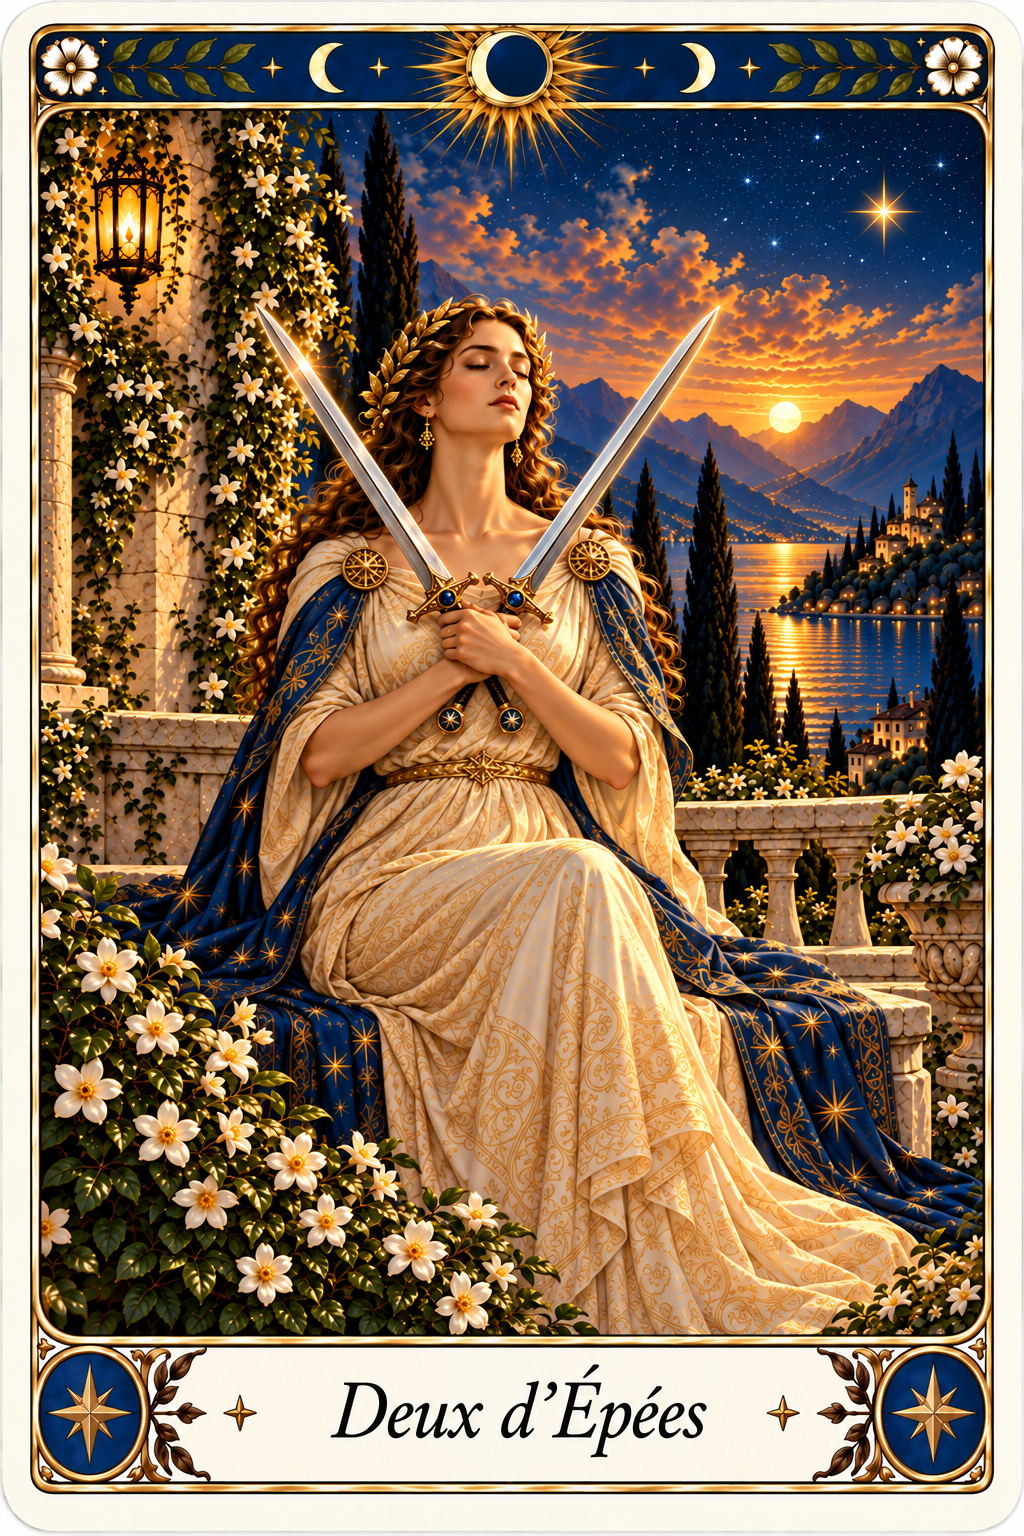
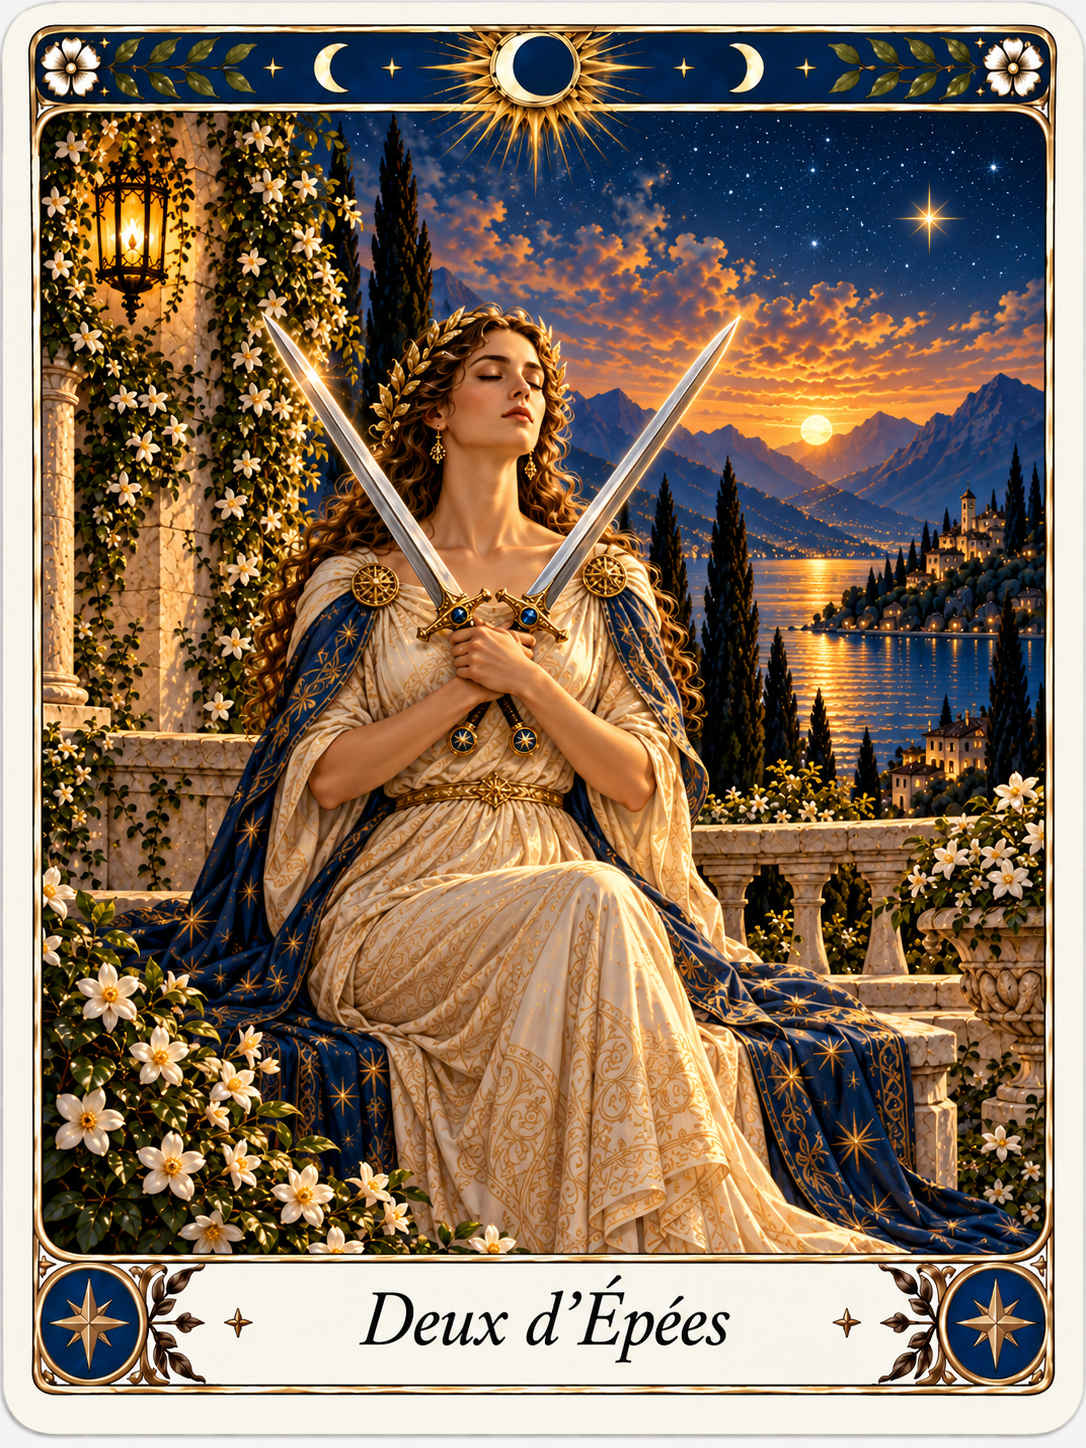
Restore source artwork and show all minor tarot cards in full

diff --git a/index.html b/index.html
@@ -87,18 +87,17 @@ html[lang="en"] .home-fr{display:none}
 .catalog-image img{position:absolute;inset:0;width:100%;height:100%;object-fit:contain;display:block}
 .catalog-name{padding:12px;font:1rem/1.35 Georgia,serif;overflow-wrap:anywhere}
 #tarotCatalogGrid .catalog-image{
-  height:300px!important;
-  aspect-ratio:auto!important;
-  min-height:300px!important;
-  max-height:300px!important;
-  overflow:hidden!important;
+  aspect-ratio:2/3;
+  height:auto;
+  overflow:hidden;
 }
 #tarotCatalogGrid .catalog-image img{
-  position:static!important;
-  width:100%!important;
-  height:100%!important;
-  object-fit:contain!important;
-  display:block!important;
+  position:absolute;
+  inset:0;
+  width:100%;
+  height:100%;
+  object-fit:contain;
+  display:block;
 }
 #tarotCatalogGrid .catalog-name{
   min-height:54px;
@@ -106,11 +105,6 @@ html[lang="en"] .home-fr{display:none}
   align-items:center;
 }
 @media(max-width:800px){
-  #tarotCatalogGrid .catalog-image{
-    height:230px!important;
-    min-height:230px!important;
-    max-height:230px!important;
-  }
   #tarotCatalogGrid .catalog-name{min-height:50px}
 }
 .card-dialog{width:min(940px,94vw);max-height:90vh;overflow:auto;border:1px solid #c7a36b;border-radius:20px;padding:24px;background:#faf6ee;color:#172033;box-shadow:0 30px 90px #0005}
@@ -1501,7 +1495,7 @@ try{const saved=new URLSearchParams(location.search).get('lang')||localStorage.g
 applyLanguage();
 </script>
 <script>if('serviceWorker' in navigator){
-const CRISTARIVA_PWA_VERSION='2026.09.28-recadrage-r1';
+const CRISTARIVA_PWA_VERSION='2026.09.28-source-hd-r2';
 let cristarivaReloading=false;
 const cristarivaRefreshOnce=()=>{
  if(cristarivaReloading)return;
@@ -1515,7 +1509,7 @@ navigator.serviceWorker.addEventListener('message',event=>{
  if(event.data&&event.data.type==='CRISTARIVA_UPDATED')cristarivaRefreshOnce();
 });
 const cristarivaCheckUpdate=()=>navigator.serviceWorker.register(
- './service-worker.js?v=20260928-recadrage-r1',
+ './service-worker.js?v=20260928-source-hd-r2',
  {scope:'./',updateViaCache:'none'}
 ).then(reg=>{
  if(reg.waiting)reg.waiting.postMessage('SKIP_WAITING');
@@ -1531,7 +1525,7 @@ const cristarivaCheckUpdate=()=>navigator.serviceWorker.register(
 window.addEventListener('load',cristarivaCheckUpdate);
 window.addEventListener('pageshow',cristarivaCheckUpdate);
 document.addEventListener('visibilitychange',()=>{if(document.visibilityState==='visible')cristarivaCheckUpdate();});
-}</script><script src="./interpretation-engine-v2.js?v=3.0.1"></script><script src="./natal-influences-v3.1.js?v=3.1"></script><script src="./period-overview-v3.2.js?v=3.2"></script><script src="./integrated-period-reading-v3.3.js?v=3.5.1"></script><script src="./natal-profile-v3.4.js?v=3.4.1"></script><script src="./natal-special-plain-v3.4.2.js?v=3.4.2"></script><script src="./synthesis-cleanup-v3.5.2.js?v=3.6.3"></script><script src="./synthesis-french-fix-v3.6.3.js?v=3.6.9"></script><script src="./story-conclusion-v3.6.js?v=3.6.2"></script><script src="./validated-card-titles-v3.6.3.js?v=20260922-tarot32"></script><script src="./story-narrative-v4.js?v=5.0"></script><script src="./story-fluid-v5.1.js?v=5.31"></script><script src="./question-context-story-v5.2.js?v=5.2.2"></script><script src="./question-intent-story-v5.3.js?v=5.6"></script><script src="./question-project-story-v5.5.js?v=5.21"></script><script src="./universal-fluid-story-v6.3.js?v=6.6"></script><script src="./period-windows-v3.7.js?v=3.7"></script><script src="./period-window-limit-v3.8.js?v=3.9.1"></script><script src="./peak-label-fix-v3.9.2.js?v=3.9.4"></script><script src="./trigger-date-guard-v3.9.7.js?v=3.9.7"></script><script src="./unique-peak-dates-v3.9.8.js?v=4.0"></script><script src="./oracle-selection.js?v=20260926-story-fluid66"></script><script src="./relation-astrology.js?v=20260926-cross-summary"></script><script src="./tarot-title-image-hotfix.js?v=20260928-recadrage-r1"></script><script>
+}</script><script src="./interpretation-engine-v2.js?v=3.0.1"></script><script src="./natal-influences-v3.1.js?v=3.1"></script><script src="./period-overview-v3.2.js?v=3.2"></script><script src="./integrated-period-reading-v3.3.js?v=3.5.1"></script><script src="./natal-profile-v3.4.js?v=3.4.1"></script><script src="./natal-special-plain-v3.4.2.js?v=3.4.2"></script><script src="./synthesis-cleanup-v3.5.2.js?v=3.6.3"></script><script src="./synthesis-french-fix-v3.6.3.js?v=3.6.9"></script><script src="./story-conclusion-v3.6.js?v=3.6.2"></script><script src="./validated-card-titles-v3.6.3.js?v=20260922-tarot32"></script><script src="./story-narrative-v4.js?v=5.0"></script><script src="./story-fluid-v5.1.js?v=5.31"></script><script src="./question-context-story-v5.2.js?v=5.2.2"></script><script src="./question-intent-story-v5.3.js?v=5.6"></script><script src="./question-project-story-v5.5.js?v=5.21"></script><script src="./universal-fluid-story-v6.3.js?v=6.6"></script><script src="./period-windows-v3.7.js?v=3.7"></script><script src="./period-window-limit-v3.8.js?v=3.9.1"></script><script src="./peak-label-fix-v3.9.2.js?v=3.9.4"></script><script src="./trigger-date-guard-v3.9.7.js?v=3.9.7"></script><script src="./unique-peak-dates-v3.9.8.js?v=4.0"></script><script src="./oracle-selection.js?v=20260926-story-fluid66"></script><script src="./relation-astrology.js?v=20260926-cross-summary"></script><script src="./tarot-title-image-hotfix.js?v=20260928-source-hd-r2"></script><script>
 /* Registre évolutif des jeux : modifier/ajouter ici un nom ou un nombre suffit pour la présentation. */
 window.CRISTARIVA_GAMES=window.CRISTARIVA_GAMES||[
 {id:'cristariva',nameFr:'Oracle CRISTARIVA',nameEn:'CRISTARIVA Oracle',count:130},

diff --git a/service-worker.js b/service-worker.js
@@ -1,8 +1,8 @@
 /* CRISTARIVA — service worker v30 — récit professionnel développé.
    Force 22 arcanes majeurs + 56 arcanes mineurs HD sur PC et Android
    et recharge la planche validée complète des arcanes mineurs. */
-const CACHE_NAME='cristariva-v37-20260928-recadrage-r1';
-const APP_VERSION='2026.09.28-recadrage-r1';
+const CACHE_NAME='cristariva-v38-20260928-source-hd-r2';
+const APP_VERSION='2026.09.28-source-hd-r2';
 const SHELL=[
   './',
   './index.html',
@@ -22,7 +22,7 @@ const SHELL=[
   './oracle-amour-compat.js?v=20260923-love-story6',
   './tarot-divinatoire-data.js?v=20260924-tarot78-base-r9',
   './tarot-divinatoire-integration.js?v=20260924-tarot78-r4-compat',
-  './tarot-title-image-hotfix.js?v=20260928-recadrage-r1',
+  './tarot-title-image-hotfix.js?v=20260928-source-hd-r2',
   './tarot-divinatoire-integration-v78.js?v=20260924-tarot78-r9',
   './tarot-minor-sprite-loader.js?v=20260926-minor-hd-r1',
   './tarot-minors-data-batons.js?v=20260924-tarot78-r9',

diff --git a/tarot-minor-sprite-loader.js b/tarot-minor-sprite-loader.js
@@ -63,10 +63,10 @@ const FILES={
 };
 window.CR_TAROT_MINOR_IMAGES={};
 for(const [id,file] of Object.entries(FILES)){
-  window.CR_TAROT_MINOR_IMAGES[id]=BASE+file+'?v=20260928-recadrage-r1';
+  window.CR_TAROT_MINOR_IMAGES[id]=BASE+file+'?v=20260928-source-hd-r2';
 }
 const count=Object.keys(window.CR_TAROT_MINOR_IMAGES).filter(k=>Number(k)>=23&&Number(k)<=78).length;
 if(count!==56)throw new Error('CRISTARIVA Tarot : '+count+'/56 illustrations mineures HD référencées.');
-window.CR_TAROT_MINOR_SPRITE_INFO={count,source:'individual-hd-png',base:BASE,version:'2026.09.28-recadrage-r1'};
+window.CR_TAROT_MINOR_SPRITE_INFO={count,source:'individual-hd-png',base:BASE,version:'2026.09.28-source-hd-r2'};
 window.CR_TAROT_MINOR_IMAGES_READY=Promise.resolve(window.CR_TAROT_MINOR_IMAGES);
 })();

diff --git a/tarot-title-image-hotfix.js b/tarot-title-image-hotfix.js
@@ -2,7 +2,7 @@
 (function(){
   'use strict';
 
-  const VERSION='20260928-recadrage-r1';
+  const VERSION='20260928-source-hd-r2';
 
   function appendScript(src){
     return new Promise((resolve,reject)=>{
@@ -54,7 +54,7 @@
       await appendScript('./tarot-divinatoire-integration-v78.js?v='+VERSION);
       await appendScript('./tarot-story-fluid-v6.2.js?v=6.6-'+VERSION);
 
-      window.CR_TAROT_HOTFIX_VERSION='2026.09.28-recadrage-r1';
+      window.CR_TAROT_HOTFIX_VERSION='2026.09.28-source-hd-r2';
       document.documentElement.dataset.cristarivaTarot='78';
       document.documentElement.dataset.cristarivaTarotImages='56';
       document.documentElement.dataset.cristarivaTarotStory='6.2';
